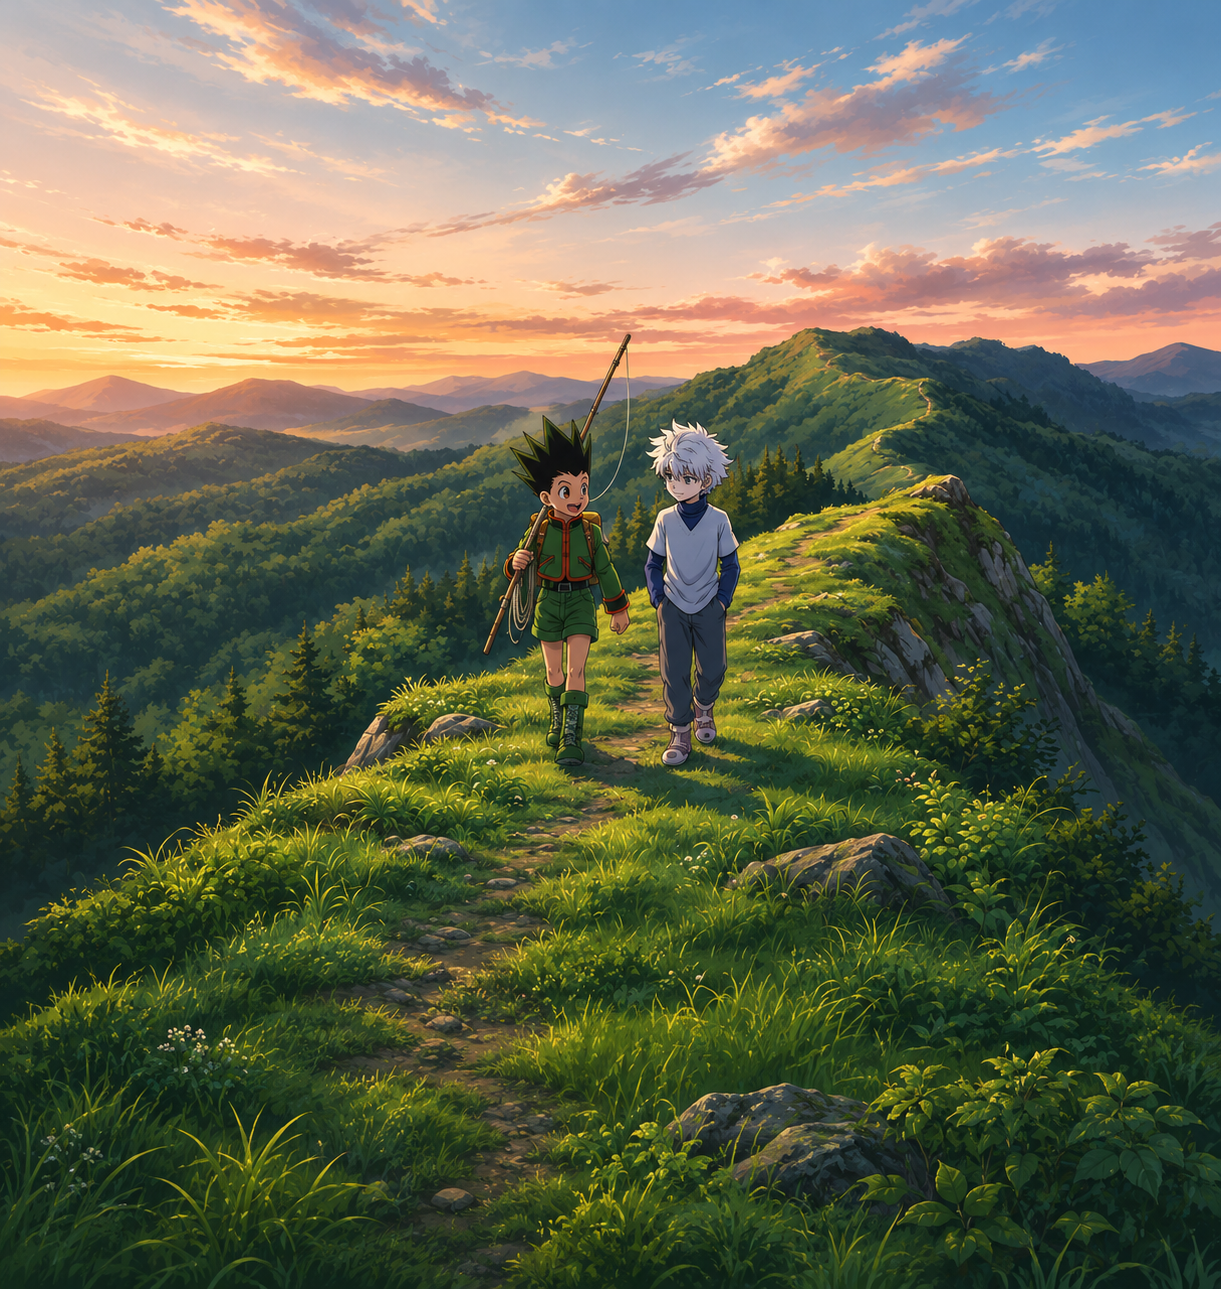
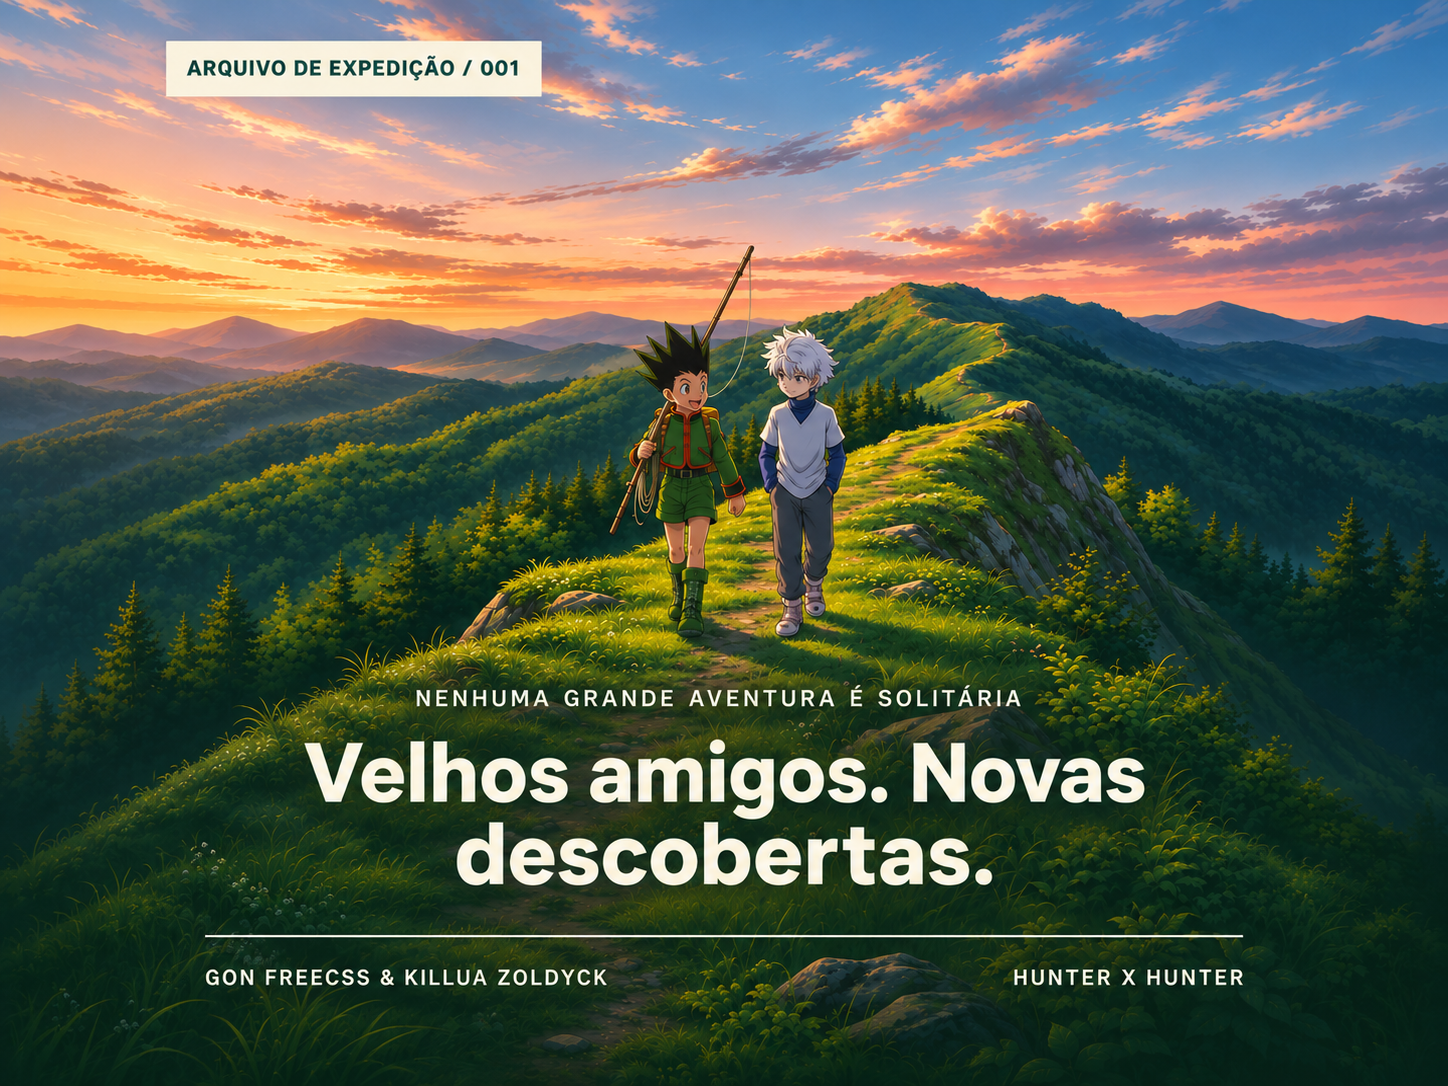
Fix images login & cadastro

diff --git a/public/css/cadastro.css b/public/css/cadastro.css
@@ -176,58 +176,9 @@
 .hero-visual {
   position: relative;
   display: flex;
-  align-items: flex-end;
   min-height: 100%;
-  padding: 32px;
-  background-image: linear-gradient(180deg, rgba(7, 27, 19, 0.18) 0%, rgba(7, 27, 19, 0.06) 42%, rgba(7, 27, 19, 0.84) 100%), url('../assets/imgs/GonKillua.png');
+  padding: 0;
+  background-image: url('../assets/imgs/GonKillua.png');
   background-size: cover;
   background-position: center;
-  color: #fff;
-}
-
-.hero-visual__label {
-  position: absolute;
-  top: 24px;
-  left: 24px;
-  padding: 8px 12px;
-  background: rgba(244, 241, 231, 0.95);
-  color: var(--verde-principal);
-  font-size: 0.66rem;
-  font-weight: 700;
-  letter-spacing: 0.12em;
-  text-transform: uppercase;
-}
-
-.hero-visual__overlay {
-  position: relative;
-  max-width: 620px;
-}
-
-.hero-visual__eyebrow {
-  margin: 0 0 12px;
-  color: rgba(244, 241, 231, 0.88);
-  font-size: 0.78rem;
-  letter-spacing: 0.14em;
-  text-transform: uppercase;
-}
-
-.hero-visual h2 {
-  margin: 0;
-  max-width: 10ch;
-  font-size: 3.6rem;
-  line-height: 1;
-  color: #f7f2e8;
-}
-
-.hero-visual__meta {
-  margin-top: 18px;
-  display: flex;
-  justify-content: space-between;
-  gap: 16px;
-  padding-top: 16px;
-  border-top: 1px solid rgba(244, 241, 231, 0.16);
-  color: rgba(244, 241, 231, 0.78);
-  font-size: 0.72rem;
-  letter-spacing: 0.12em;
-  text-transform: uppercase;
 }

diff --git a/public/css/login.css b/public/css/login.css
@@ -164,57 +164,9 @@
 .hero-visual {
   position: relative;
   display: flex;
-  align-items: flex-end;
   min-height: 100%;
-  padding: 32px;
-  background-image: linear-gradient(180deg, rgba(7, 27, 19, 0.18) 0%, rgba(7, 27, 19, 0.06) 42%, rgba(7, 27, 19, 0.84) 100%), url('../assets/imgs/Montanha.png');
+  padding: 0;
+  background-image: url('../assets/imgs/Montanha.png');
   background-size: cover;
   background-position: center;
-  color: #fff;
-}
-
-.hero-visual__label {
-  position: absolute;
-  top: 24px;
-  left: 24px;
-  padding: 8px 12px;
-  background: rgba(244, 241, 231, 0.95);
-  color: var(--verde-principal);
-  font-size: 0.66rem;
-  font-weight: 700;
-  letter-spacing: 0.12em;
-  text-transform: uppercase;
-}
-
-.hero-visual__overlay {
-  position: relative;
-  max-width: 620px;
-}
-
-.hero-visual__eyebrow {
-  margin: 0 0 12px;
-  color: rgba(244, 241, 231, 0.86);
-  font-size: 0.78rem;
-  letter-spacing: 0.14em;
-  text-transform: uppercase;
-}
-
-.hero-visual h2 {
-  margin: 0;
-  font-size: 3.6rem;
-  line-height: 1;
-  color: #f7f2e8;
-}
-
-.hero-visual__meta {
-  margin-top: 18px;
-  display: flex;
-  justify-content: space-between;
-  gap: 16px;
-  padding-top: 16px;
-  border-top: 1px solid rgba(244, 241, 231, 0.16);
-  color: rgba(244, 241, 231, 0.78);
-  font-size: 0.72rem;
-  letter-spacing: 0.12em;
-  text-transform: uppercase;
 }

diff --git a/public/cadastro.html b/public/cadastro.html
@@ -98,15 +98,6 @@
       </section>
 
       <aside class="hero-visual" aria-label="Imagem temática">
-        <div class="hero-visual__label">Arquivo de expedição / 001</div>
-        <div class="hero-visual__overlay">
-          <p class="hero-visual__eyebrow">Nenhuma grande aventura é solitária</p>
-          <h2>O melhor da jornada é quem caminha com você.</h2>
-          <div class="hero-visual__meta">
-            <span>Gon Freecss &amp; Killua Zoldyck</span>
-            <span>Hunter x Hunter</span>
-          </div>
-        </div>
       </aside>
     </div>
   </main>

diff --git a/public/login.html b/public/login.html
@@ -90,15 +90,6 @@
       </section>
 
       <aside class="hero-visual" aria-label="Imagem temática">
-        <div class="hero-visual__label">Arquivo de expedição / 001</div>
-        <div class="hero-visual__overlay">
-          <p class="hero-visual__eyebrow">Nenhuma grande aventura é solitária</p>
-          <h2>Velhos amigos. Novas descobertas.</h2>
-          <div class="hero-visual__meta">
-            <span>Gon Freecss &amp; Killua Zoldyck</span>
-            <span>Hunter x Hunter</span>
-          </div>
-        </div>
       </aside>
     </div>
   </main>
